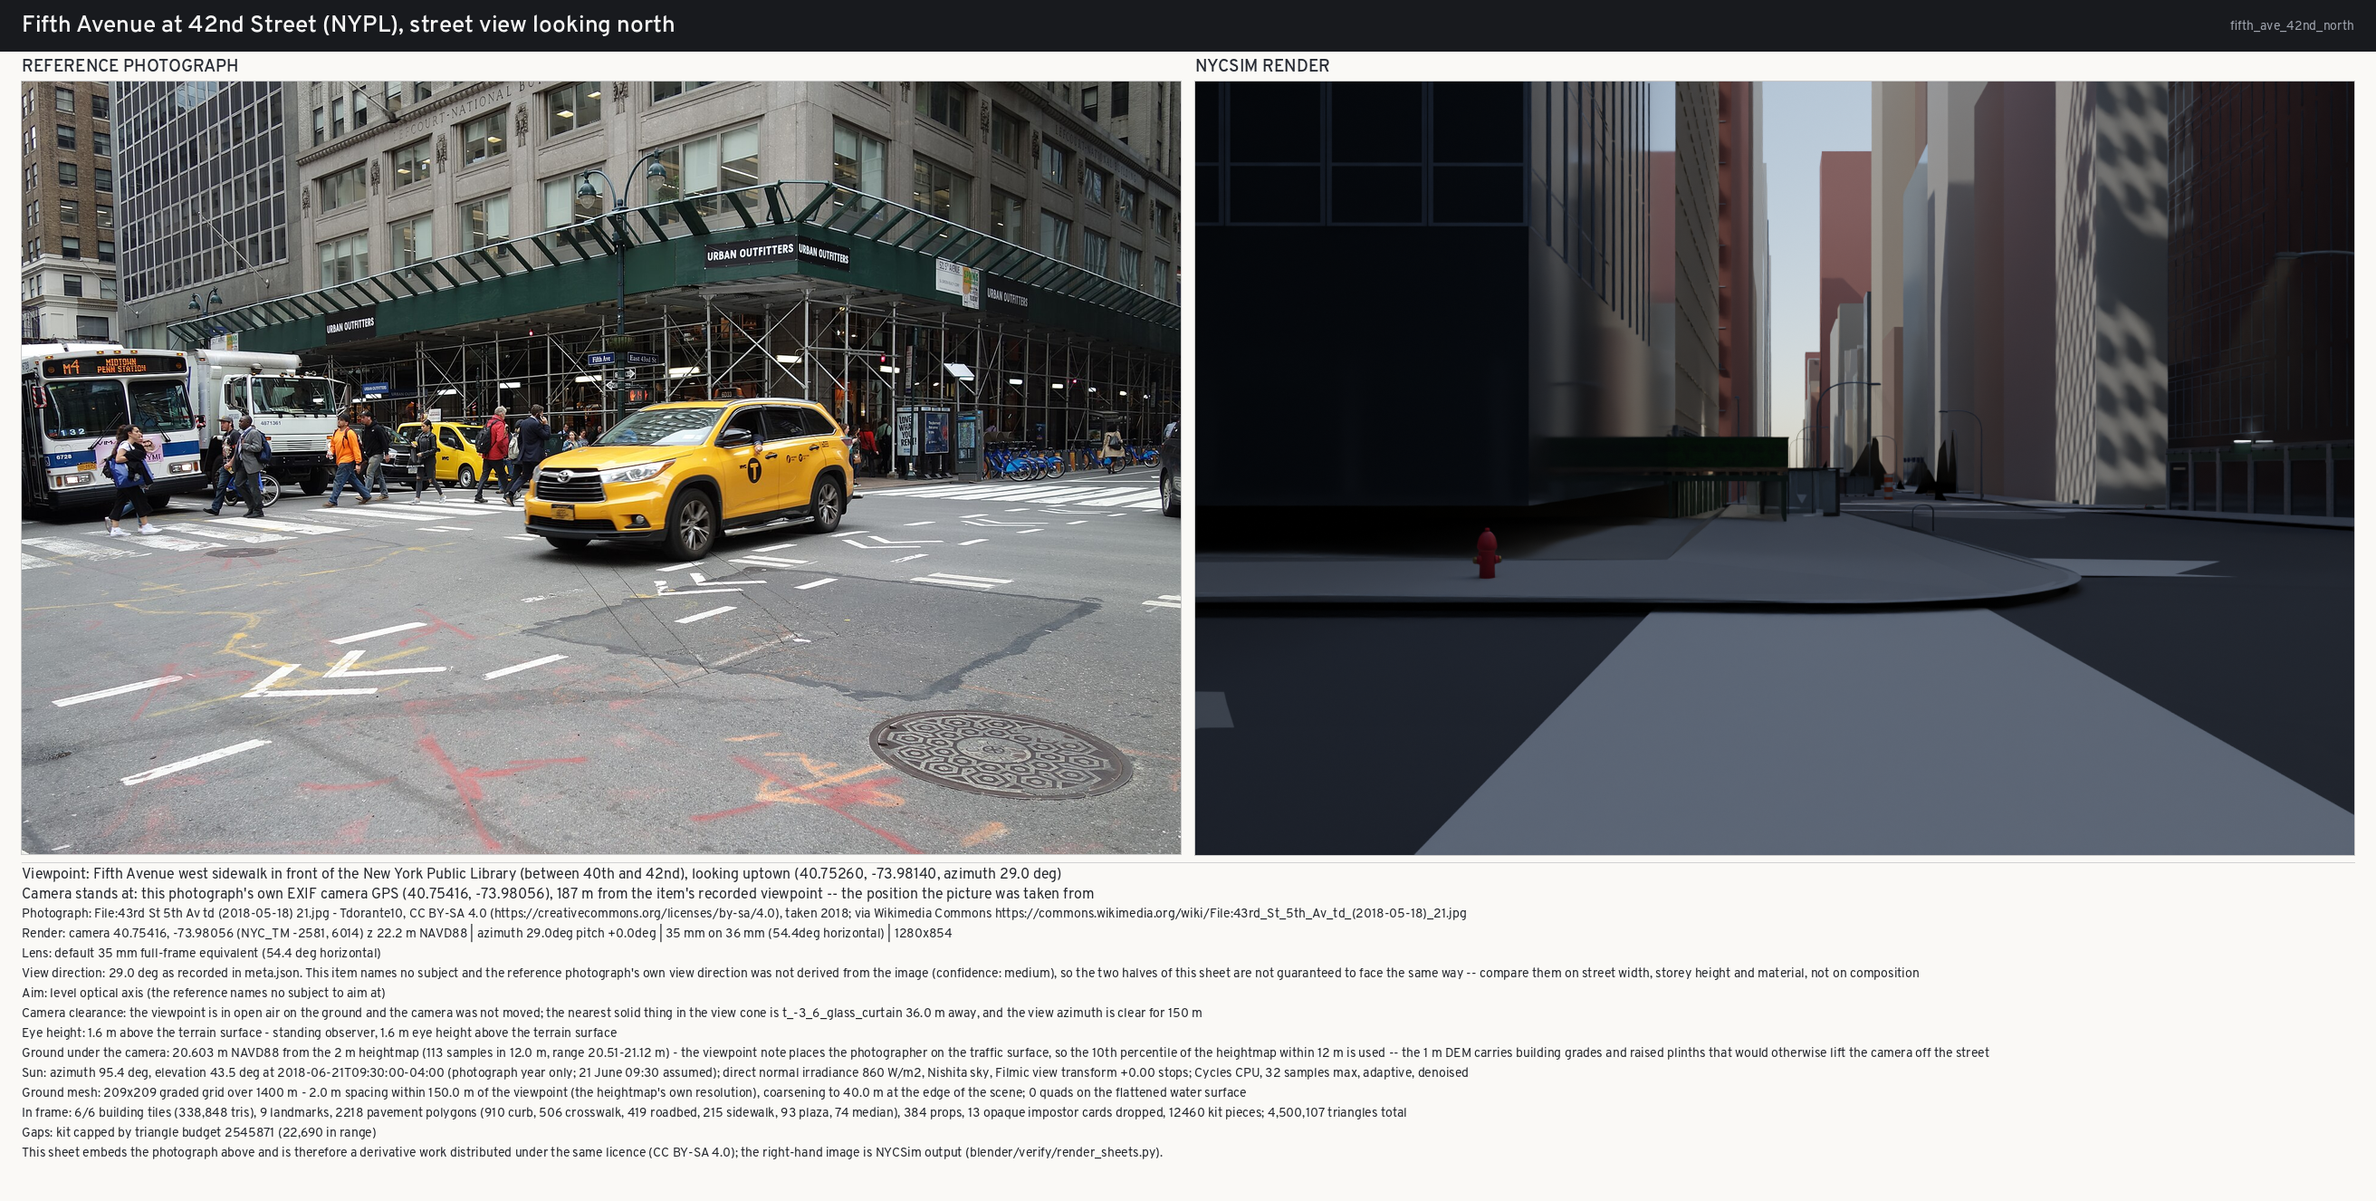
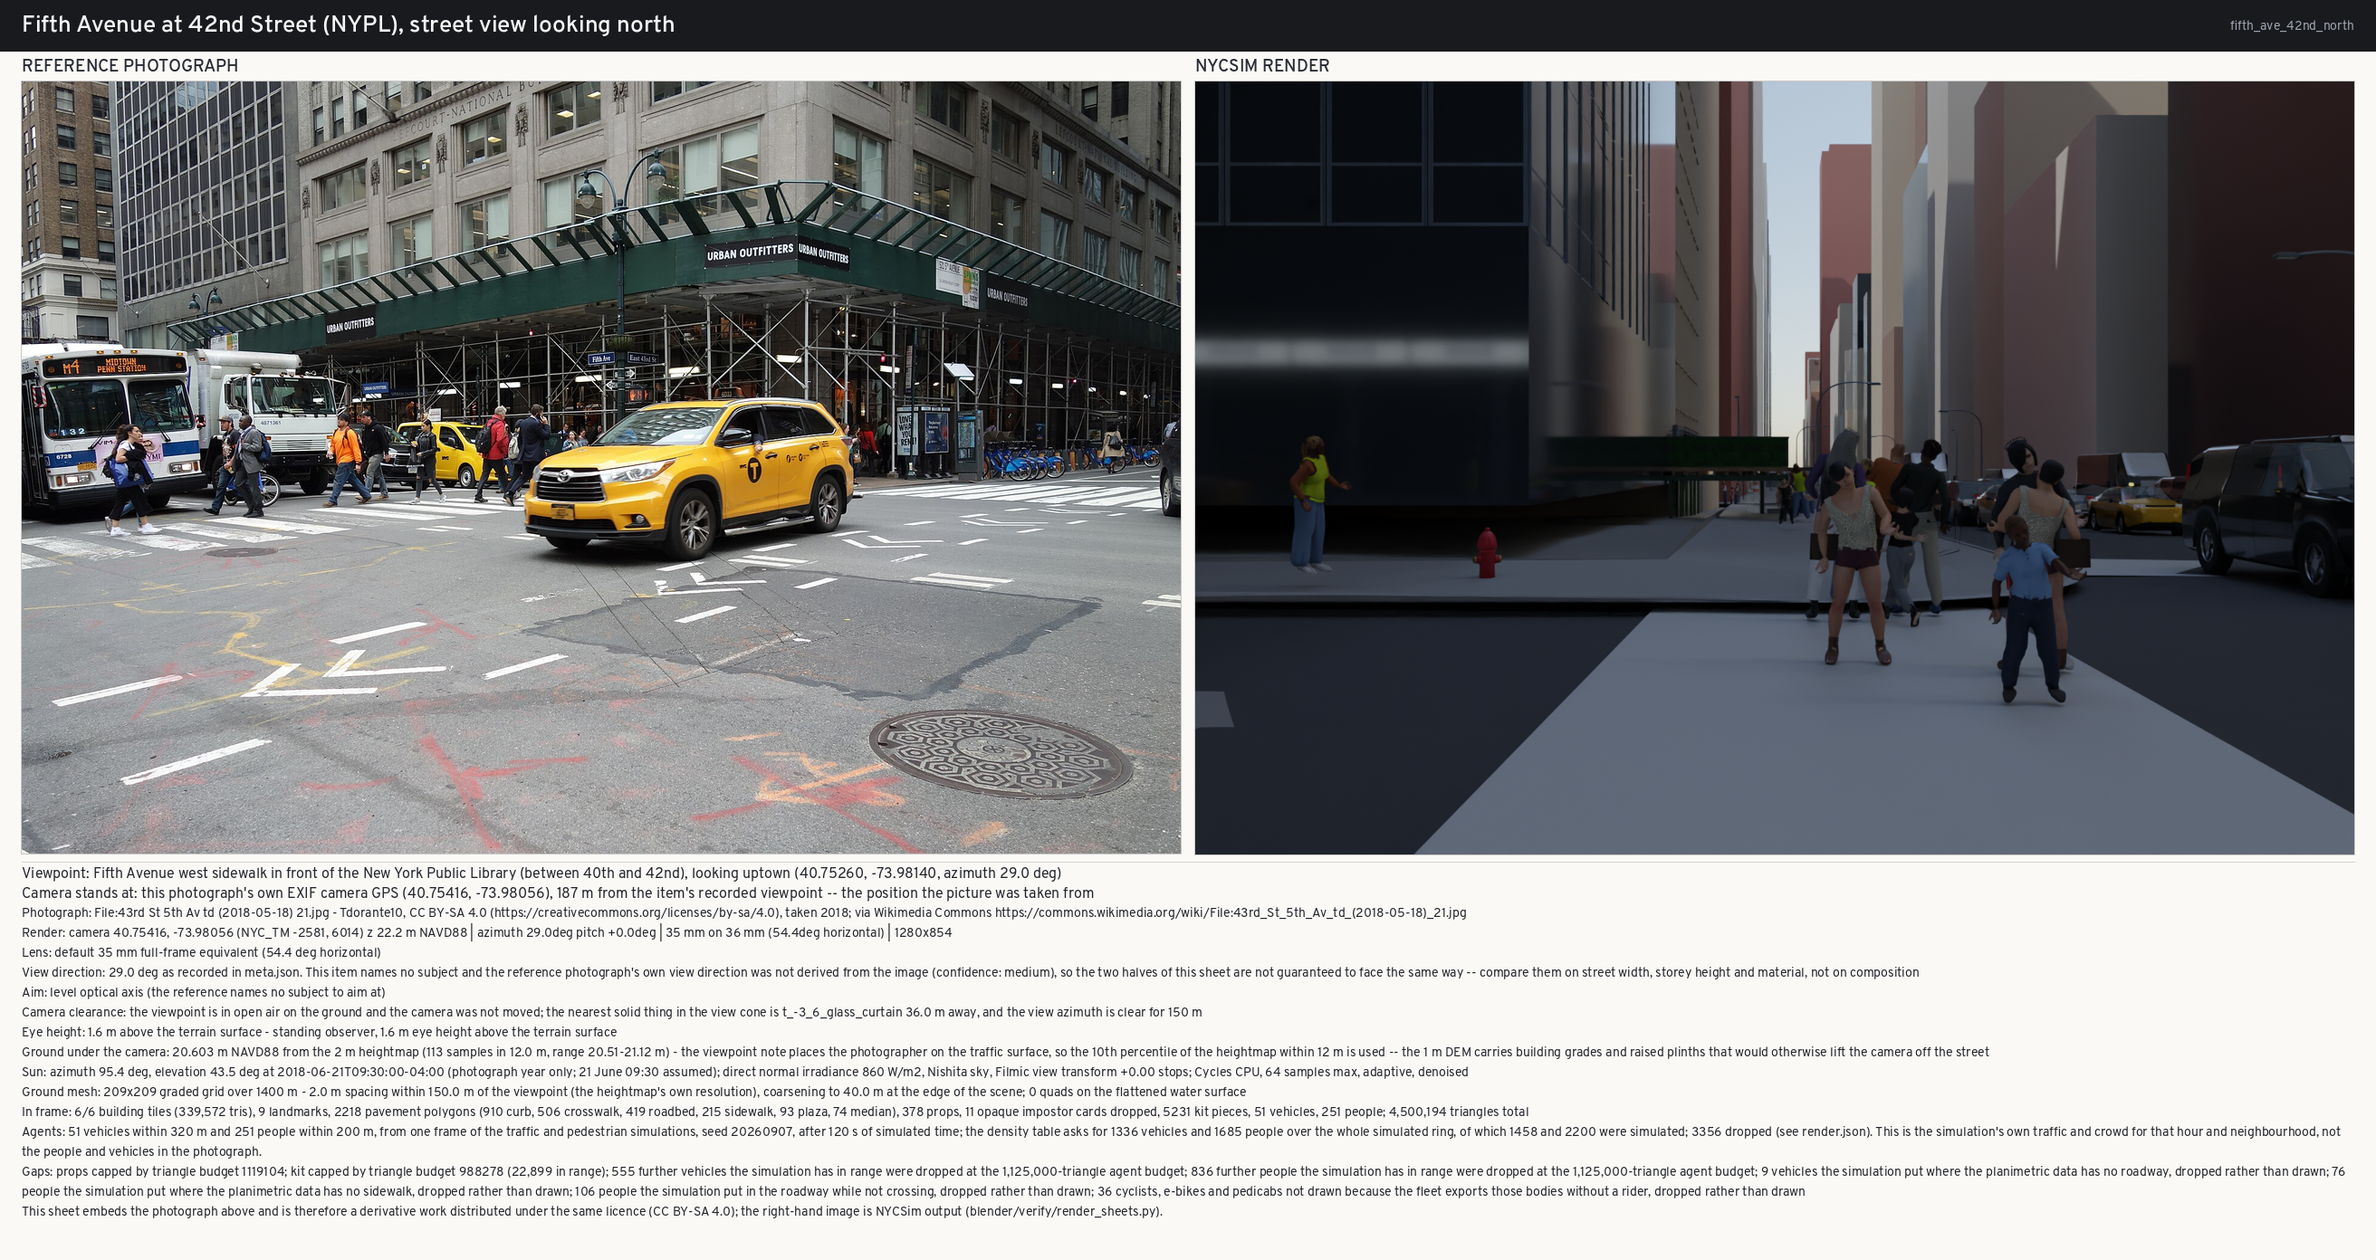
verify: Fifth Avenue north, a mandated viewpoint, and the exposure gap at its worst
The world is there - towers stepping away up both sides, nine landmark models,
251 people on the right pavement, 51 vehicles with a cab and an SUV at the kerb,
the avenue running to a bright gap at the horizon.  And it is half the
brightness of the photograph it is paired with:

              render   photograph
  mean         0.227      0.455
  median       0.176      0.537
  below 0.20  52.3 %     22.2 %

Two causes.  The general one is I16: the render is physically lit and the
photograph was metered, and Fifth Avenue between towers at a 43.5 deg sun is
deep in its own shadow.  The particular one is that this frame's Sun is an
assumption rather than a measurement - time_source reads "photograph year only;
21 June 09:30 assumed" - so the shadow pattern is a plausible June morning and
not the photograph's instant.  Measured across the set: 5 of the 57 scenes are
lit that way and the other 52 take the Sun from EXIF.  On a north-facing avenue
view the assumed hour decides whether the street is lit or in shade, so here it
is not a detail.

Both numbers are now in I16 beside the Stone Street pair, which was the milder
case.

Claude-Session: https://claude.ai/code/session_012rCzdfEp56Z5bDvSJLVsiQ

Changed region(s): [[0.0, 0.0, 1.0, 0.9894], [0.9375, 0.0, 0.9688, 0.0309]]

diff --git a/docs/DEVIATIONS.md b/docs/DEVIATIONS.md
@@ -173,7 +173,7 @@ the individual assessments, because together they are the honest answer to "is i
 | I13a | **The crowd cannot reach a plaza that is not beside a street.** The walkable network is derived from the road segments, so Bethesda Terrace gets **10 pedestrians against roughly eighty in its reference photograph** — and the terrace was not filled to hide it. Two smaller gaps in the same population: **cyclists, e-bike riders, moped riders and pedicab drivers are not drawn at all** (33 dropped in the Fifth Avenue frame alone), because the fleet table's 1.80 m height for `cyclist` is rider-plus-bicycle and the exported body is a 1.10 m bicycle — the rider is not exported, and a riderless bicycle rolling down Fifth Avenue would be worse than none; and **7 of the 18 vehicle classes are exported at a size the fleet table does not publish**, each recorded in `VEHICLE_ASSET_DEVIATIONS` with its measured deviation, with a test that fails both on a new deviation past 5 % and on a recorded row changing quietly. | `GameplayPedSim::buildSidewalks()` offsets road centrelines (H4); a park terrace, a pedestrian plaza and a boardwalk are none. | The planimetric sidewalk and plaza polygons, which are the same fix H4 asks for. The riders need a character body attached to the bicycle asset. |
 | I15 | ~~The agent clearance around the camera is set for "not inside the lens", not for "not filling the frame"~~ — **closed, after a frame turned up that was nothing but an NPC.** `blender/verify/agents.py` uses `CAMERA_CLEAR_PED_M = 1.5` and `CAMERA_CLEAR_VEHICLE_M = 6.0`, and they do exactly what they say — no agent stands inside those radii. On `drive_bronx_grand_concourse` the result is that the right third of a portrait frame is the backs of four people: measured against that camera (42.2° horizontal, azimuth 25.0°), one pedestrian sits at **1.50 m and 27.9° off axis — one centimetre above the cut-off** — and the nearest one actually in frame is at **2.57 m, 21.0° off axis**, with more at 3.39 m and 4.41 m. At a 1.6 m eye and a 42° lens a body at 2.57 m fills about a third of the frame height. | The rule was written to stop an agent being rendered inside the camera, which is a rendering question, and it answers that correctly. A comparison sheet needs a different question answered — whether a person dominates the frame — and nothing asks it. It was invisible until this pass because an empty scene cannot have anyone standing in it. | **`drive_midtown_sixth_ave_45th` settled it: the nearest pedestrian stood at 1 m and the frame was one NPC's torso — no street, no buildings, no Sixth Avenue.** A person at 1 m subtends **261 %** of frame height at this set's 1.6 m eye and 38° vertical field. `CAMERA_CLEAR_PED_M` is now **3.5 m**, derived from the frame rather than picked: the frame is `0.69 × d` metres tall, a 1.8 m body fills all of it at 2.6 m, and 3.5 m puts it at 74 % — close, which a street photograph often is, without being the whole picture. `CAMERA_CLEAR_PED_BASIS` records the body height, field of view and frame share it came from, so a different lens re-derives it instead of re-guessing, and a test asserts the constant still matches its own basis and can only ever tighten. It stays a radius rather than a forward wedge because the placement runs before the final view azimuth is known. **And the constant was only half of it.** The re-render reported *no* pedestrian dropped over the observer on `drive_bronx_grand_concourse` while four still stood between 1.44 m and 2.57 m of the lens — because `add_agents` measures from the point the scene was built around, and the camera had moved 5.39 m since. Measured across the set, **26 of the 57 scenes have the camera away from the scene centre**: 5.4 m here, 11 m on Arthur Avenue, **166 m on One World Trade Center**, where `probe_origin` switched from the photograph's GPS to the nominal viewpoint. The clearance was guarding a point that in half the set is not where the camera ends up. `agents.cull_near_camera` now runs after the camera is final, removes what the placement could not know about, and folds the count into the same `dropped` keys so a reader sees one number per cause; a test asserts it uses the same radii as the placement and runs *after* `clear_of_geometry`. The cost is a fourth re-run of the pass. |
 | I17 | **The camera clearance test measures a ray, and a frame is not a ray.** `camera.view_distance` casts one line along the view azimuth at eye height and reports how far it runs before a building shell stops it; `min_view_m` accepts the viewpoint on that number. `drive_queens_bayside` passes it completely — *"the viewpoint is in open air on the ground and the camera was not moved; the nearest solid thing in the view cone is `t_15_7_vinyl_siding` 23.6 m away, and the view azimuth is clear for 150 m"* — and the frame is the blank side wall of a house filling the upper third over an untextured ground plane, with **none of the 73 vehicles, 263 pedestrians or 182 trees in the scene visible**. | The ray is looking down a gap between two houses. It is a correct measurement of a line and it is silent about the rest of the image, which is the part a reader sees. The same shape as every other fault found today: a real number that cannot fail in the way the thing it stands for can. | A coverage measure rather than a distance: sample the frame — a coarse grid of rays through the actual view frustum — and require some share of it to reach beyond a minimum distance, so a camera facing a wall through a slot is rejected however clear the slot is. Cheap, since the scene is already built when the check runs. **Scale, measured rather than guessed, and it is not 12 broken sheets:** across the 55 scenes with a clearance record, **12 have the ray clear for the full 150 m probe while something solid stands within 30 m of the lens**, and only 2 within 10 m. That signature is *not* by itself a fault — on `landmark_nypl` the thing 18.9 m away is the library, on `times_square_duffy_south_day` at 23.6 m it is the TKTS booth, and on `dumbo_washington_st_manhattan_bridge` the 2.6 m object is `prop_lamp_cobra_davit_1`, a lamp standard, which `view_distance` steps past by design because it counts only building shells and landmark models. It becomes a fault when the near object is not the subject, which the clearance record has no way to say. Bayside is that case; deciding which of the other 11 are needs the frames, not the record. |
-| I16 | **The renders are physically lit and the photographs are metered, so every shaded frame compares under-exposed.** The render places the Sun from the photograph's own EXIF instant and then applies a fixed 0-stop exposure on a Filmic transform; the photographer's camera metered the scene in front of it and opened up. On `drive_lower_manhattan_stone_st` — a narrow alley under a 58.6° sun — the render's mean luminance is **0.249 against the photograph's 0.404**, and the area above 0.95 is **0.02 % against 14.66 %**. | Nothing is wrong with the lighting model, and this was nearly written up as an emissive-calibration bug before it was measured: the first reading was that the lit shopfront fascias were blowing out, and in fact nothing in the frame clips at all — they only look bright because everything around them is dark. The two images answer different questions, and the sheets say so rather than treating the gap as a fidelity failure. | An auto-exposure that meters the rendered frame the way a camera would, applied per scene and recorded in `render.json` beside the 0-stop default so a reader can tell a metered frame from a physical one. The night frame already does a hand-tuned version of this (`NIGHT_EXPOSURE_STOPS = −1.25`, calibrated against its own photograph's histogram), which is the argument that the general case is worth doing properly rather than per frame. |
+| I16 | **The renders are physically lit and the photographs are metered, so every shaded frame compares under-exposed.** The render places the Sun from the photograph's own EXIF instant and then applies a fixed 0-stop exposure on a Filmic transform; the photographer's camera metered the scene in front of it and opened up. On `drive_lower_manhattan_stone_st` — a narrow alley under a 58.6° sun — the render's mean luminance is **0.249 against the photograph's 0.404**, and the area above 0.95 is **0.02 % against 14.66 %**. Worse on the mandated `fifth_ave_42nd_north`: mean **0.227 against 0.455**, median **0.176 against 0.537**, and **52.3 % of the frame below 0.20 against 22.2 %** — half the brightness and a median pixel three times darker. **A second cause compounds it on 5 of the 57 scenes**, that one included: their Sun is an assumption rather than a measurement (`time_source` reads "photograph year only; 21 June 09:30 assumed"), so the shadow pattern is a plausible morning and not the photograph's own instant. The other 52 take it from EXIF. | Nothing is wrong with the lighting model, and this was nearly written up as an emissive-calibration bug before it was measured: the first reading was that the lit shopfront fascias were blowing out, and in fact nothing in the frame clips at all — they only look bright because everything around them is dark. The two images answer different questions, and the sheets say so rather than treating the gap as a fidelity failure. | An auto-exposure that meters the rendered frame the way a camera would, applied per scene and recorded in `render.json` beside the 0-stop default so a reader can tell a metered frame from a physical one. The night frame already does a hand-tuned version of this (`NIGHT_EXPOSURE_STOPS = −1.25`, calibrated against its own photograph's histogram), which is the argument that the general case is worth doing properly rather than per frame. |
 | I14 | **27 of the 57 comparison cameras stand on the carriageway, 24 of them at 1.6 m — standing in live traffic.** Audited by the DoITT pavement polygon under each eye point and shipped as `docs/verification/comparison/camera_surface_audit.json`: roadbed 24, sidewalk 19, crosswalk 3, plaza 3, and 8 on no paved polygon at all (bridge deck, ferry deck, promenade, park path). No camera is inside a building. The three that stand over the roadway rather than in it — Duffy Square at 6.2 m on the TKTS steps, the High Line at 10.7 m, Top of the Rock at 260.7 m — are where they belong. | The camera search optimises for a clear sight line to the subject, and the middle of the street is where one is. It has never had a rule about what a photographer can stand on, and the reference photographs it is compared against were overwhelmingly taken from the pavement. Until this pass it was also invisible: with no vehicles in the scene, a camera in the roadbed looked exactly like a camera on the kerb. | Constrain the search to sidewalk, crosswalk, plaza and unpaved surfaces, and let a roadbed placement through only where the sheet says why — the three elevated ones would still pass. Not done in this pass because it moves 24 cameras and therefore invalidates 24 sheets and their written assessments for a second time in one day. |
 | I12 | **Seven of the 57 sheets compared two halves that did not show the same subject; six are fixed and the assumption behind them is gone, but three faults of the same family remain.** Both mandated Fifth Avenue viewpoints now compare views of the same street in the same direction, which is what unblocked two of the nine. | One assumption ran through all seven: the chooser's only evidence that a photograph was *of* something was its association with a *place*. Four rules replace it — subject terms matched against title and description and **never** categories, a `not_of` list on the title, a term preceded by a house number not counting ("325 Fifth Avenue" is a building, not the avenue), and an LCCN in the file name marking an archival scan. That last one caught a **c.1900 photochrom** serving as the Fifth Avenue reference: the only date its metadata carries is the date it was digitised, so it read as 2018. Exactly 1 of the 519 photographs was affected. Revalidated over all 172 subjects with a dry run before every change: **six items moved and nothing else**. ADR-020 turned out not to forbid any of it — it governs keeping the photographs tracked, not how they are chosen. | **Three faults remain, recorded rather than churned.** (1) The chooser still establishes no view *direction*: a photograph looking the wrong way along the right street still passes. (2) `drive_bronx_grand_concourse` is the weakest sheet in the set — Commons has almost nothing free looking along that boulevard near East 165th Street, so its reference is of the right street 3.9 km away. (3) The Washington Square Arch item's recorded `subject` coordinate sits 15.0 m from the Arch model's own origin, which at 39 m aims the render 15.8° off the thing it is a picture of; aiming at the nearest landmark model instead was measured across the 43 subjects with one in range and **rejected**, because it swings 10 of them by more than 10° — including 174.8° for the Vessel and 174.3° for the Paramount Building, where the nearest model is a multi-building model whose origin is not the subject. A per-subject aim point is a pass of its own, and so is auditing the 73 of 138 point-subject items whose keywords leave part of their subject name unrequired. |
 

diff --git a/docs/verification/comparison/fifth_ave_42nd_north/assessment.md b/docs/verification/comparison/fifth_ave_42nd_north/assessment.md
@@ -45,6 +45,33 @@ After all four, the item's three photographs are `43rd St 5th Av td (2018-05-18)
 seeds, 5 eligible), which is the honest cost: Commons has few free photographs looking up Fifth Avenue
 and many of the library beside it.
 
+## Re-rendered 2026-09-07 — a mandated viewpoint, and the exposure gap at its worst
+
+Fifth Avenue at 42nd looking north is one of the seven the brief names. The world is there: towers
+stepping away up both sides of the avenue, nine landmark models in the scene, a crowd of 251 people
+walking the right-hand pavement, 51 vehicles with a yellow cab and a black SUV at the kerb, a hydrant,
+lamp standards, the avenue running to a bright gap at the horizon.
+
+**It is also the worst instance of deviation I16 in the set so far**, and the numbers are not close:
+
+| | render | photograph |
+|---|---|---|
+| mean luminance | **0.227** | **0.455** |
+| median | **0.176** | **0.537** |
+| area below 0.20 | **52.3 %** | 22.2 % |
+
+The render is half the brightness of the photograph and its median pixel is three times darker. More
+than half the frame sits below 0.20 where the photograph puts a fifth there. The left-hand block face
+is nearly black.
+
+**Two causes, and the second is specific to this sheet.** The general one is I16: the render is
+physically lit and the photograph was metered by its photographer, and Fifth Avenue between towers at
+a 43.5° sun is deep in its own shadow. The particular one is that **this frame's Sun is an
+assumption, not a measurement** — `time_source` reads *"photograph year only; 21 June 09:30 assumed"*,
+so the shadow pattern is a plausible June morning rather than the photograph's own instant. **5 of
+the 57 scenes** are lit this way; the other 52 take the Sun from EXIF. On a north-facing avenue view
+the assumed hour decides whether the street is lit or in shade, so on this sheet it is not a detail.
+
 ## What matches
 
 * **Both halves face the same way**, which is the point of the change: the photograph looks north up
